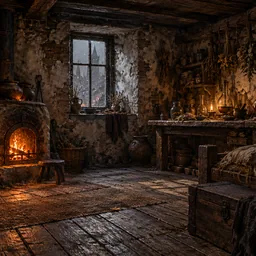
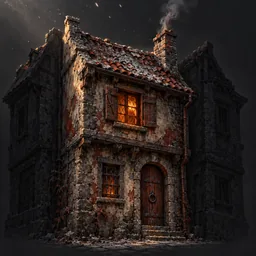
Магазин: своя иконка Дома вместо временной вырезки из комнаты

diff --git a/tools/crafts_art_prompts.md b/tools/crafts_art_prompts.md
@@ -98,7 +98,7 @@ border, square 1:1 composition, crisp readable silhouette at small size
 
 ## Карточка магазина - `img/магазин_дом.png` (1:1)
 
-Сейчас на карточке временная вырезка из картинки комнаты. Своя иконка -
+Готово (2026-10-21), подключено как miniapp/src/assets/shop/house.webp. Иконка -
 снаружи: небольшой каменный дом в городе, свет в окне и дым из трубы,
 чтобы читалось «свой угол» даже на маленькой карточке.
 
